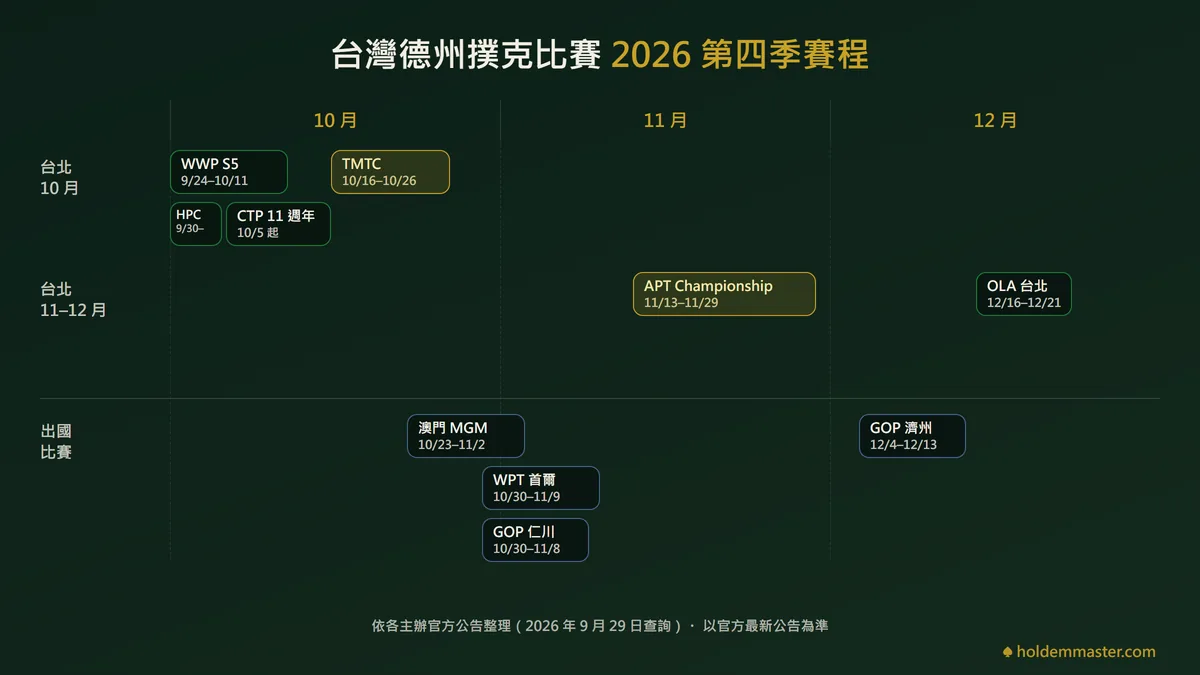
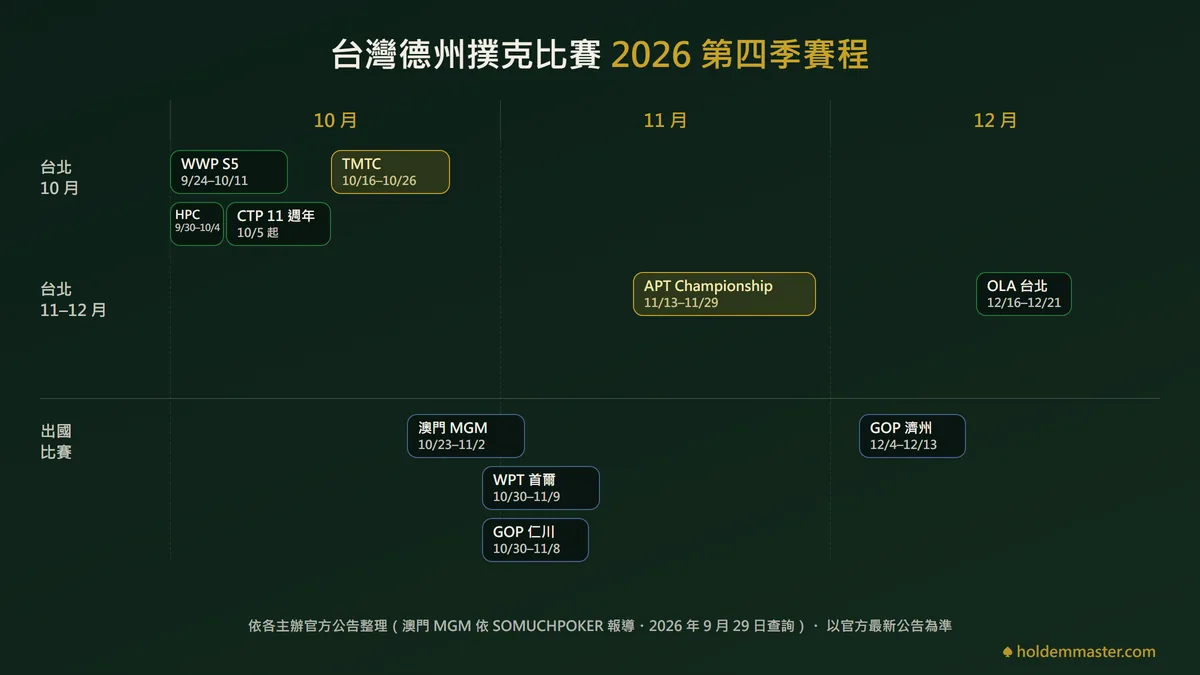
fix(zh-hant): taiwan-poker-tournaments-guide 아스트라 교차 검수 7건 반영
- APT Day 2 등록 · OLA 범위 삭제 · MGM Day 2·출처 · WPT/GOP 등록 절차 · 히어로 HPC 날짜 · TMT 21 추측 삭제
- 판정 = 사실 시트 §5 · MB-123

Changed region(s): [[0.185, 0.9022, 0.8017, 0.9333], [0.1233, 0.3111, 0.185, 0.3422]]

diff --git a/scripts/gen-taiwan-poker-tournaments-guide-hero.html b/scripts/gen-taiwan-poker-tournaments-guide-hero.html
@@ -37,7 +37,7 @@ h1 span { color:#C9A227; }
     <div class="bar" style="left:0;width:118px">WWP S5<em>9/24–10/11</em></div>
     <div class="bar" style="left:56px;width:105px;top:52px">CTP 11 週年<em>10/5 起</em></div>
     <div class="bar main" style="left:161px;width:119px">TMTC<em>10/16–10/26</em></div>
-    <div class="bar" style="left:0;width:52px;top:52px;padding:4px 5px;font-size:12px">HPC<em style="font-size:10px">9/30–<br></em></div>
+    <div class="bar" style="left:0;width:54px;top:52px;padding:4px 4px;font-size:12px">HPC<em style="font-size:9.5px;letter-spacing:-.3px">9/30–10/4</em></div>
   </div>
   <div class="lbl" style="top:278px">台北<br>11–12 月</div>
   <div class="track" style="top:272px">
@@ -52,7 +52,7 @@ h1 span { color:#C9A227; }
     <div class="bar ov" style="left:312px;width:107px;top:104px">GOP 仁川<em>10/30–11/8</em></div>
     <div class="bar ov" style="left:689px;width:107px">GOP 濟州<em>12/4–12/13</em></div>
   </div>
-  <div class="note">依各主辦官方公告整理（2026 年 9 月 29 日查詢）・ 以官方最新公告為準</div>
+  <div class="note">依各主辦官方公告整理（澳門 MGM 依 SOMUCHPOKER 報導・2026 年 9 月 29 日查詢）・ 以官方最新公告為準</div>
   <div class="wordmark">&#9824; holdemmaster.com</div>
 </div>
 </body>

diff --git a/docs/tournament-factsheets/2026-q4-zh-hant-taiwan-schedule.md b/docs/tournament-factsheets/2026-q4-zh-hant-taiwan-schedule.md
@@ -99,3 +99,16 @@
 
 - 채택 5: «9 月前» → «9 月底前»(GOP 9/27·ZSOP 9/15) · GOP 제주 «외국인 전용» 삭제(시트에 베뉴 없음) · 용어 3(«一天內打完» · «不做推測» · 시각 표기).
 - 기각 4(원문 근거 있음 · 시트에 축어 보강): ① HPC 무료 위성 = 일정 «EVENT #1 … 9/30 11:30 … 10% 主賽事 免費衛星賽 保底五張門票» · «EVENT #5 10/1 11:30 … Freeroll Satellite GTD 5 seats»(ctpclub.app/en/festivals/hpc-2026-ii) ② HPC 베뉴 = `docs/tournament-spine.md` Harbour Poker Cup II 행 «hpc.poker 라이브 확인 — 베뉴 Asia Poker Arena, TAIPEI» ③ «TMTC PASS 單日錦標賽» = 중문 일정표 «11th NLH 單日錦標賽 GTD:NT$400,000 TMTC PASS» ④ CTP 사전 회원 등록 = TMTC 시트(`2026-10-tmtc.md`)의 CTP «Register as Player» 안내.
+
+## 5. 아스트라(GPT-6 Astra · Codex read-only) 교차 검수 판정 — 09-29
+
+보고 8건(🔴2·🟠5·🟡1) → **채택 7 · 기각 1**. 채택분은 본체가 원문을 다시 열어 확인(Playwright 09-29).
+- 채택 ① APT 메인 Day 2 «(Reg Open for 2 Levels)» 11/24 «Reg Closes 1:45 PM» → «錯過 11/23 就沒有第二次機會» 삭제(ja 시트 §2에 이미 있던 조건).
+- 채택 ③ OLA 범위 «TWD3K to 55K»(07-15 뉴스)는 현 일정표와 불일치 — 위성 «TWD1,200» · #756 «Big O High Roller» «Buy-in: TWD72,000 + 8,000» «Cap: 16 players» «Admission: Reserve only.» → 본문 범위 문장 삭제. 🔴 §2-B의 «buy-ins range from TWD3K to 55K»는 «뉴스 당시 값»으로만 읽을 것.
+- 채택 ④ MGM(SOMUCHPOKER 일정표) Day 1A~1E 10/30~11/1 + «2026-11-02 (Monday)» Day 2 → 본문 «五個 Day 1 … Day 2 在 11/2» · desc «官方公告與賽事報導» · 히어로 하단 «澳門 MGM 依 SOMUCHPOKER 報導». 주최 static.mgm.mo는 405(미확보 유지).
+- 채택 ⑤ WPT player-info «Every player needs a valid passport to register a player's card at Inspire Hotel & Casino» · «Before entering the INSPIRE Casino entrance, all guests must complete the registration form below.»
+- 채택 ⑥ GOP 약관 «Players must comply with KHold’em registration and tracking procedures for all GOP events.»
+- 채택 ⑦ 히어로 HPC «9/30–» → «9/30–10/4».
+- 채택 ⑧ TMT 21 «很可能落在 2027 年初» 삭제(추측 금지와 자기모순).
+- **기각 ②** ZSOP 종료일 «9/14»: ZSOP 공식 홈 «3 - 15 SEPT, 2026»(09-29 재확인) vs CTP 목록 «Sep 03 — Sep 14» = **원문끼리 불일치**. 본문은 «9 月底前»이라 무관 — 시트 §3-1c «9/3~15»는 ZSOP 원문 값으로 유지.
+- 참고: 아스트라는 WWP 수첩(Google Drive)을 샌드박스 승인 문제로 못 열었다 — 본체는 09-29 PDF 원본을 렌더해 판독(§3-1a·b).

diff --git a/WORKLOG.md b/WORKLOG.md
@@ -1,3 +1,9 @@
+## 2026-09-29 (7) — taiwan-poker-tournaments-guide 아스트라 교차 검수 반영
+
+- 사장님 지시: 아스트라로 검수(페르소나·서치 강화). 이 세션에서 Codex CLI `gpt-6-astra`를 **read-only 샌드박스 + 스크래치 사본**으로 실행(ChatGPT 계정 인증 · 별도 API 과금 없음). 대만 현지 매체 편집자 페르소나 · 1차 원문 직접 열람·축어·직접 계수 규율.
+- 보고 8건 → 채택 7(APT Day 2 등록 2레벨 · OLA 범위 문장 삭제 · MGM Day 2 11/2·출처 표시 · WPT 플레이어 카드·사전 등록 · GOP KHold’em 등록 · 히어로 HPC 날짜 · TMT 21 추측 문장 삭제) · 기각 1(ZSOP 종료일 — 공식 홈 «3 - 15 SEPT» vs CTP «Sep 14» 원문 불일치). 전건 본체가 원문 재확인. 판정 = 사실 시트 §5.
+- 게이트: audit:hard zh-hant 59/59 🔴0 · check:images · build 73+612.
+
 ## 2026-09-29 (6) — zh-hant 대만 대회 일정 모음 글 발행: taiwan-poker-tournaments-guide
 
 - 사실 시트 §3 미조사 6항목 원문으로 채움(`docs/tournament-factsheets/2026-q4-zh-hant-taiwan-schedule.md` §3·§4): WWP S5 수첩(Google Drive 이미지 PDF → 렌더 판독 · 메인 #23 NT$6,000 / 10M) · CTP 11th 중문 일정표(이미지 · 메인 = 10/11 單日 NT$8,000 / 2M · 마지막 날 10/15) · TMT 21 미발표(Archive로 1·7월 패턴) · PSC·ZSOP·GOP 대만 Q4 없음 · HPC II 메인 6M · K-ETA 면제 2026-12-31(K-ETA 공지 + 駐韓國台北代表部) · 마카오 MGM(B티어 SOMUCHPOKER).
